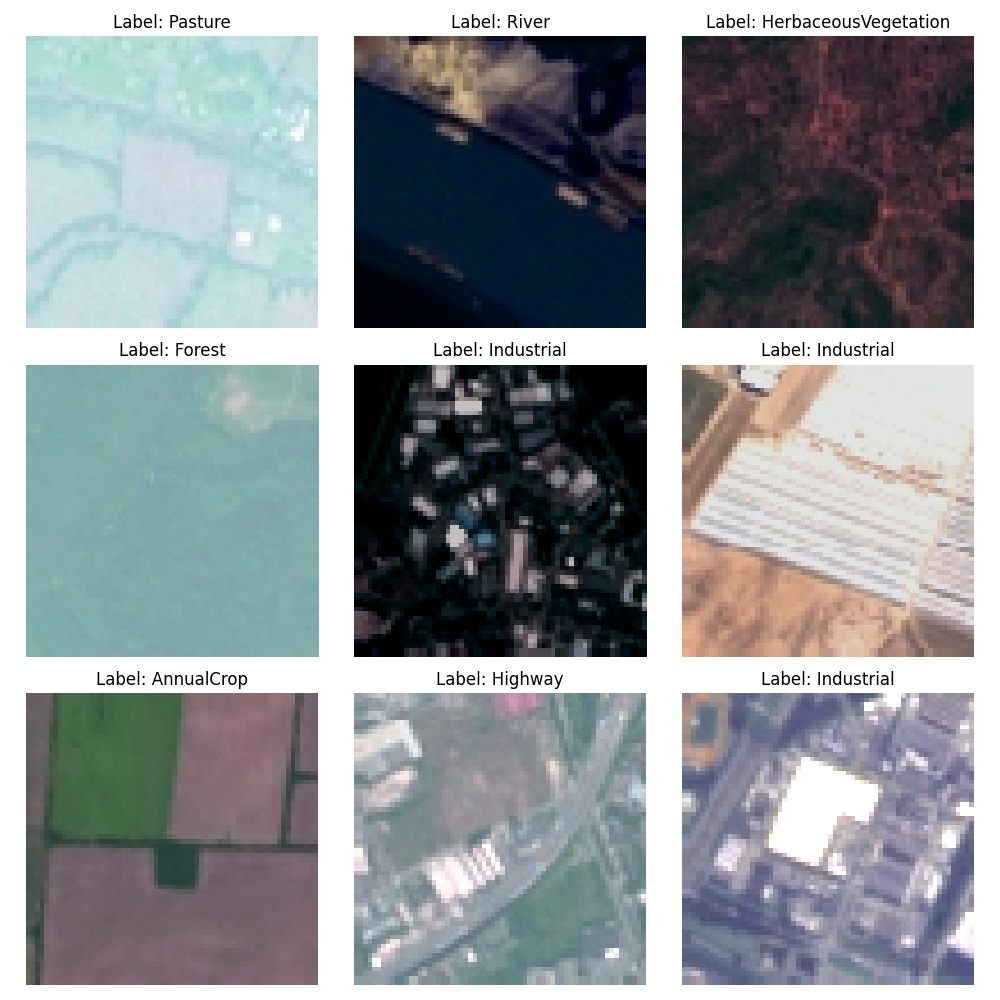
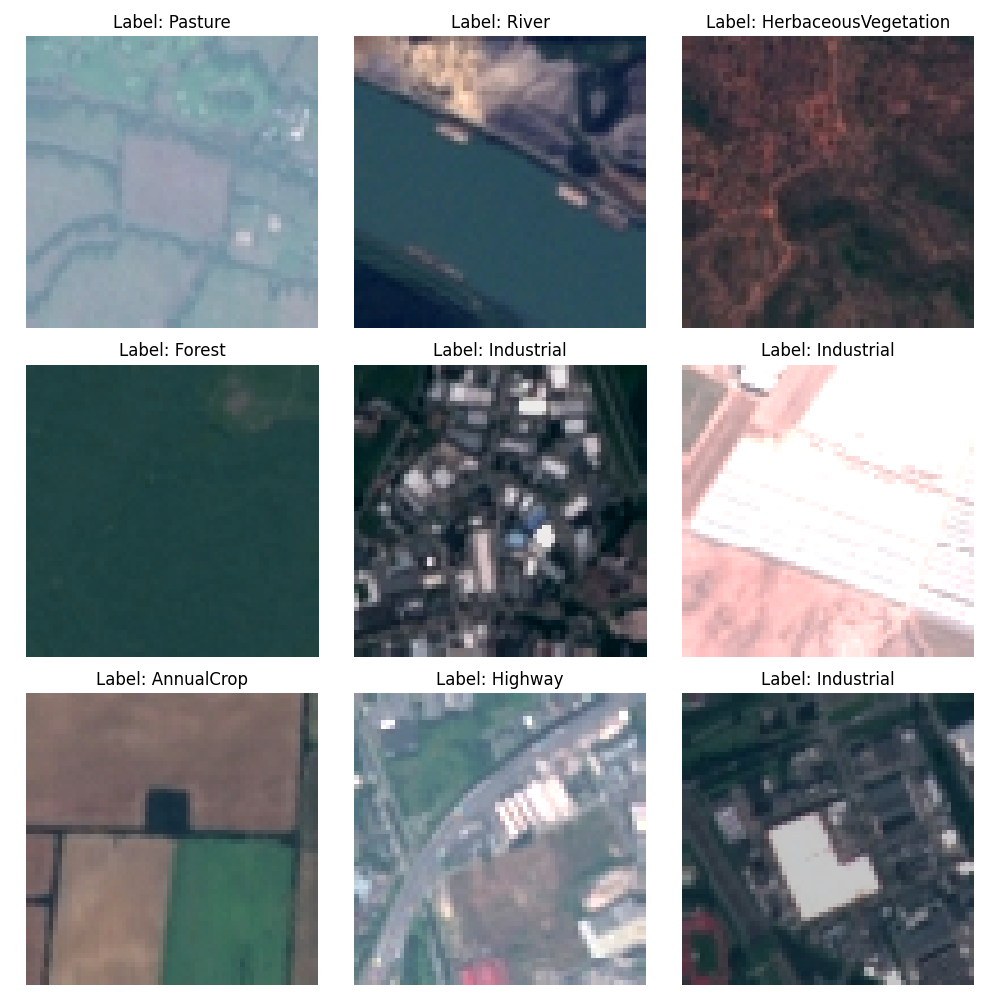
Final Spec

diff --git a/Classification/CNN.py b/Classification/CNN.py
@@ -45,7 +45,7 @@ set_global_seed(42)
 
 # Hyperparameters
 optimizer_algorithm = Adam(learning_rate=0.00003)
-number_epoch = 2
+number_epoch = 100
 batch_length = 16
 show_inter_results = 1
 num_rows = 64
@@ -103,10 +103,10 @@ def parse_image(img_path, label):
 def augment_image(image, label):
     image = tf.image.random_flip_left_right(image)
     image = tf.image.random_flip_up_down(image)
-    image = tf.image.random_brightness(image, max_delta=0.3)
+    image = tf.image.random_brightness(image, max_delta=0.2)
     image = tf.image.random_contrast(image, lower=0.8, upper=1.2)
     image = tf.image.random_saturation(image, lower=0.8, upper=1.2)
-    image = tf.image.random_hue(image, max_delta=0.1)
+    image = tf.image.random_hue(image, max_delta=0.05)
     image = tf.clip_by_value(image, 0.0, 1.0)
     return image, label
 
